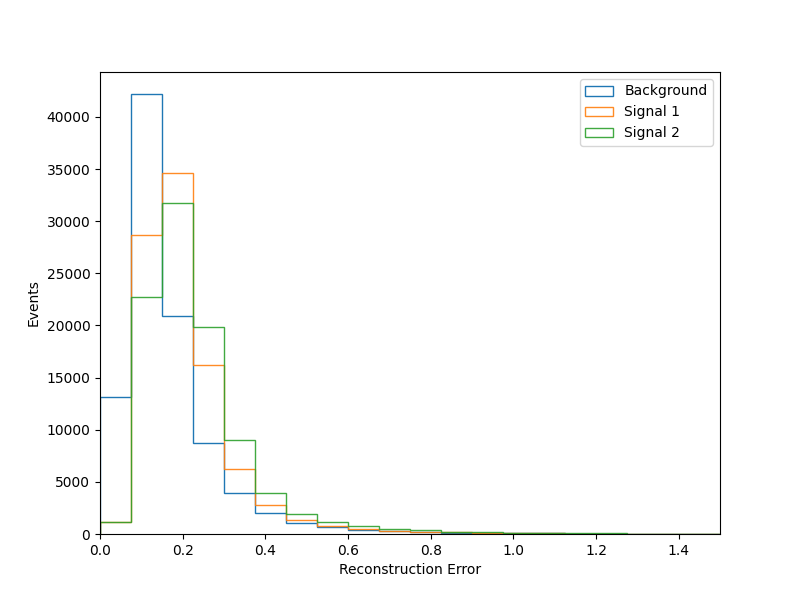
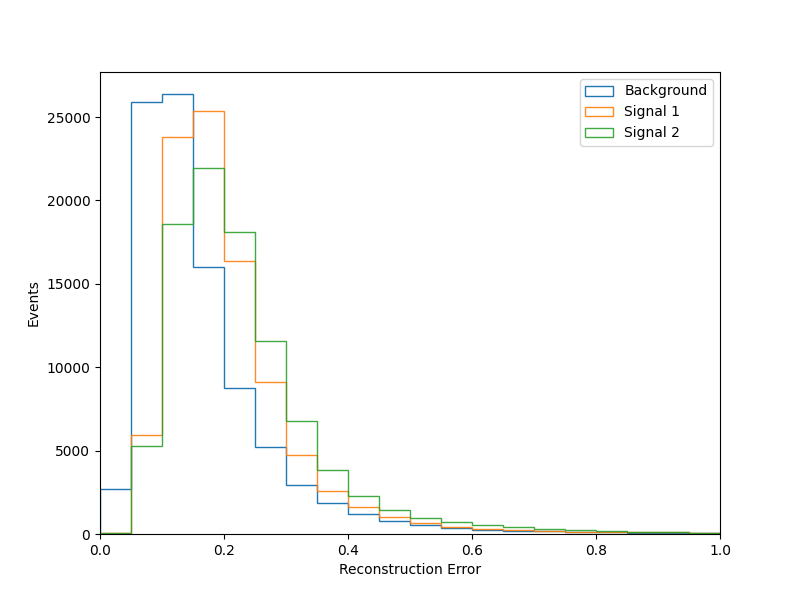
Testing with standard scaling and 21, 14 layer dimensions

diff --git a/test.py b/test.py
@@ -131,12 +131,12 @@ loss_sig2_total = loss_sig2.sum(axis=1) / 42
 # Plot Total Reconstruction Error
 nbins = 20
 fig, axes = plt.subplots(figsize=(8,6))
-axes.hist([loss_bkg_total], nbins, range=(0, 1.5), density=0, histtype='step', label=['Background'], stacked=True, alpha=1)
-axes.hist([loss_sig1_total], nbins, range=(0, 1.5), density=0, histtype='step', label=['Signal 1'], stacked=True, alpha=0.9)
-axes.hist([loss_sig2_total], nbins, range=(0, 1.5), density=0, histtype='step', label=['Signal 2'], stacked=True, alpha=0.9)
+axes.hist([loss_bkg_total], nbins, range=(0, 1), density=0, histtype='step', label=['Background'], stacked=True, alpha=1)
+axes.hist([loss_sig1_total], nbins, range=(0, 1), density=0, histtype='step', label=['Signal 1'], stacked=True, alpha=0.9)
+axes.hist([loss_sig2_total], nbins, range=(0, 1), density=0, histtype='step', label=['Signal 2'], stacked=True, alpha=0.9)
 axes.set_xlabel(r"Reconstruction Error")
 axes.set_ylabel("Events")
-axes.set_xlim(0, 1.5)
+axes.set_xlim(0, 1)
 axes.legend(loc='upper right')
 fig.savefig(f"figs/testing/reconstruction_error_{scale}_{mid_dim}_{latent_dim}.png")
 
